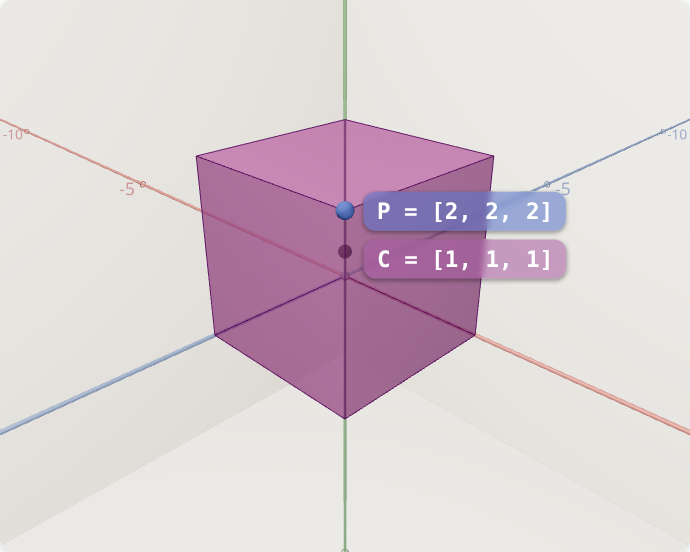
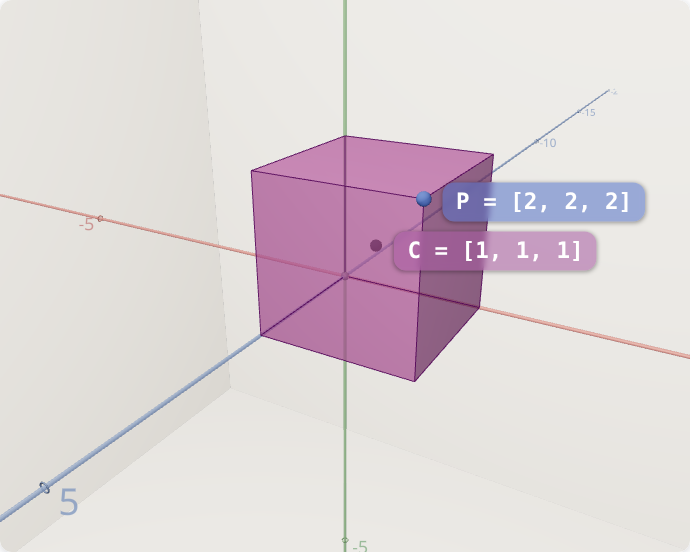
view the pivot diagrams from a lower, more frontal angle
Azimuth 30 and elevation 24 instead of the editor's 45 and 27, which
shows the cube's front face and P more clearly; the labels fit at
distance 9.5.

diff --git a/src/pages/PivotDiagramPage.jsx b/src/pages/PivotDiagramPage.jsx
@@ -14,7 +14,7 @@ import './StudyPhase1Page.css'
 
 const PIVOT_DIAGRAM_CANVAS = { width: 460, height: 368 }
 
-const CAMERA_POSITION = positionFromOrbit({ ...DEFAULT_CAMERA_VIEW, distance: 8.5 })
+const CAMERA_POSITION = positionFromOrbit({ distance: 9.5, azimuthDeg: 30, elevationDeg: 24 })
 
 // The goal is the start rotated 90 degrees about Y through the cube's centre,
 // which leaves the cube itself looking the same, so only P moves.
